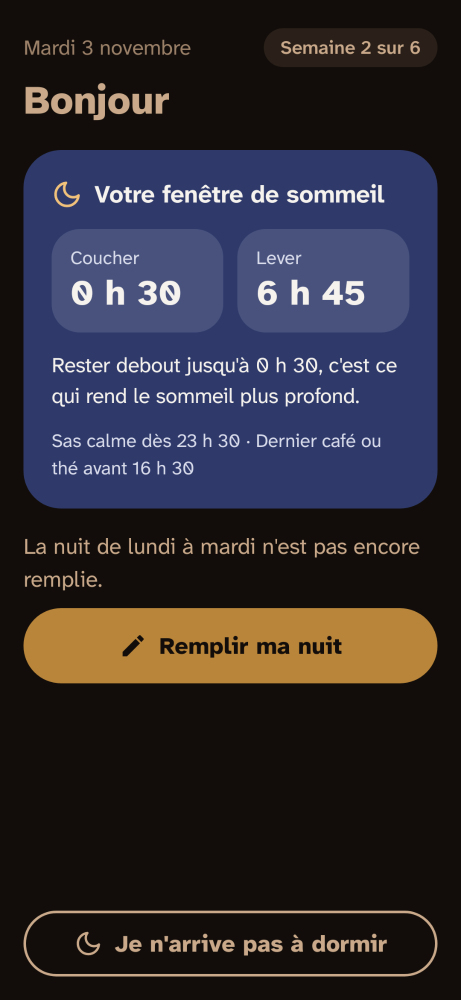
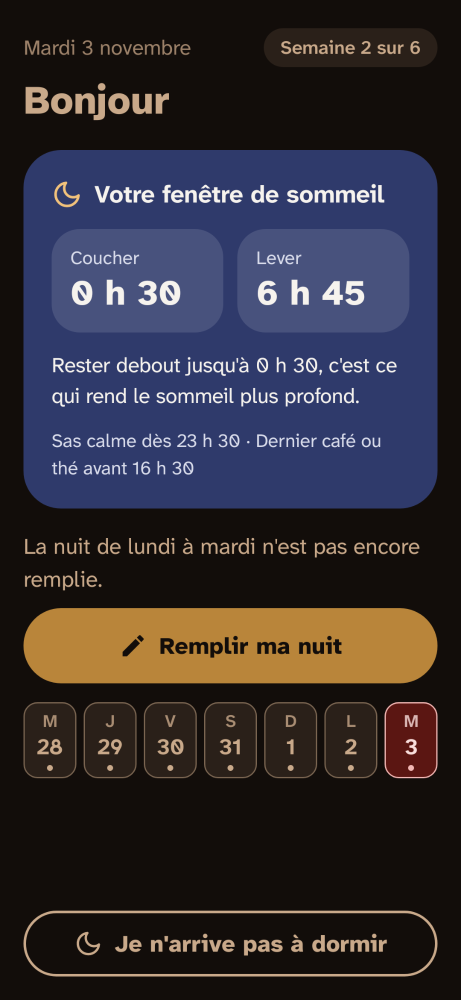
docs(captures): mise à jour des captures de l'écran d'accueil avec le ruban des nuits

diff --git a/screenshots/src/test/kotlin/fr/sommelle/screenshots/Samples.kt b/screenshots/src/test/kotlin/fr/sommelle/screenshots/Samples.kt
@@ -2,12 +2,14 @@ package fr.sommelle.screenshots
 
 import androidx.compose.runtime.Composable
 import fr.sommelle.core.model.AgeBand
+import fr.sommelle.core.model.DiaryEntry
 import fr.sommelle.core.model.Pathway
 import fr.sommelle.core.model.ScreeningAnswers
 import fr.sommelle.core.model.SleepQuality
 import fr.sommelle.core.model.SleepWindow
 import fr.sommelle.core.presentation.DiaryDraft
 import fr.sommelle.core.presentation.DiaryStep
+import fr.sommelle.core.presentation.RecentNightUi
 import fr.sommelle.core.presentation.Texts
 import fr.sommelle.core.presentation.ReportTone
 import fr.sommelle.core.presentation.ScreeningFlow
@@ -16,6 +18,7 @@ import fr.sommelle.core.presentation.WeekBadge
 import fr.sommelle.core.presentation.WeekChart
 import fr.sommelle.core.presentation.WeeklyReport
 import fr.sommelle.core.presentation.WindowStep
+import fr.sommelle.core.presentation.recentNights
 import fr.sommelle.core.protocol.PeriodSummary
 import fr.sommelle.core.protocol.ScreeningEvaluator
 import fr.sommelle.core.presentation.ClinicianReport
@@ -128,6 +131,7 @@ object Samples {
             nightsToFill = listOf(tuesday),
             lastNight = tuesday,
             askDaytimeImpact = true,
+            recentNights = sampleRecentNights(0),
         ),
         onFillNight = {},
         onChooseWakeTime = {},
@@ -217,20 +221,43 @@ object Samples {
         OnboardingContent(state, onStart = {}, onChooseAge = {}, onAnswer = {}, onBack = {}, onConfirm = {})
 
     @Composable
-    private fun home(step: WindowStep, badge: WeekBadge, week: Int) = HomeContent(
-        s = HomeState(
-            date = Texts.current().longDate(tuesday),
-            badge = badge,
-            week = week,
-            pathway = Pathway.FULL,
-            step = step,
-            nightsToFill = listOf(tuesday),
-            lastNight = tuesday,
-        ),
-        onFillNight = {},
-        onChooseWakeTime = {},
-        onCantSleep = {},
-    )
+    private fun home(step: WindowStep, badge: WeekBadge, week: Int): Unit {
+        val count = if (step is WindowStep.Baseline) step.loggedNights else 6
+        HomeContent(
+            s = HomeState(
+                date = Texts.current().longDate(tuesday),
+                badge = badge,
+                week = week,
+                pathway = Pathway.FULL,
+                step = step,
+                nightsToFill = listOf(tuesday),
+                lastNight = tuesday,
+                recentNights = sampleRecentNights(count),
+            ),
+            onFillNight = {},
+            onChooseWakeTime = {},
+            onCantSleep = {},
+        )
+    }
+
+    private fun sampleRecentNights(loggedCount: Int = 6): List<RecentNightUi> {
+        val entries = (1L..loggedCount.toLong()).map { i ->
+            val night = tuesday.minusDays(i)
+            val out = night.atTime(LocalTime.of(6, 45))
+            DiaryEntry(
+                nightOf = night,
+                bedTime = out.minusHours(7),
+                lightsOutTime = out.minusHours(7),
+                sleepOnsetLatency = Duration.ofMinutes(15),
+                awakeningCount = 1,
+                wakeAfterSleepOnset = Duration.ofMinutes(15),
+                finalWakeTime = out,
+                outOfBedTime = out,
+                quality = if (i % 2 == 0L) SleepQuality.GOOD else SleepQuality.FAIR,
+            )
+        }
+        return recentNights(tuesday, entries, listOf(tuesday))
+    }
 
     private fun period(inBed: Long, asleep: Long) = PeriodSummary(
         loggedNights = 7,
